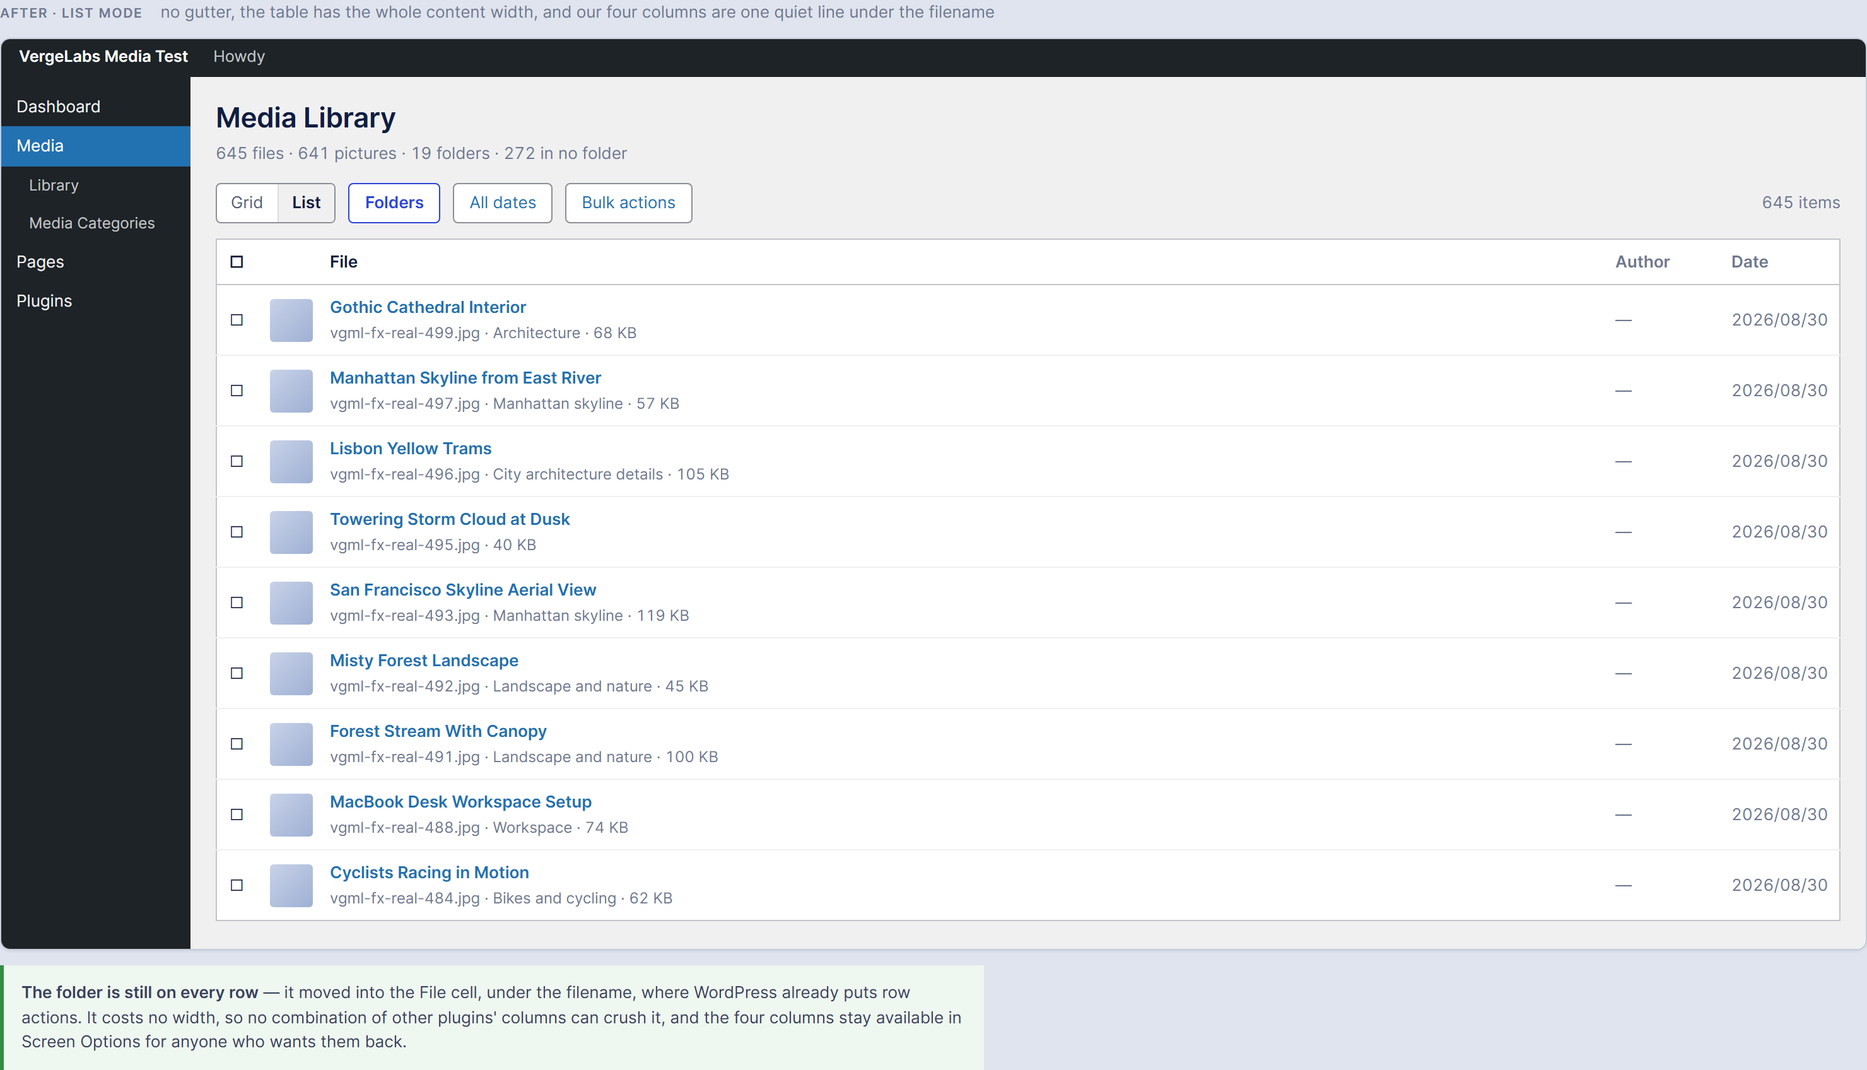
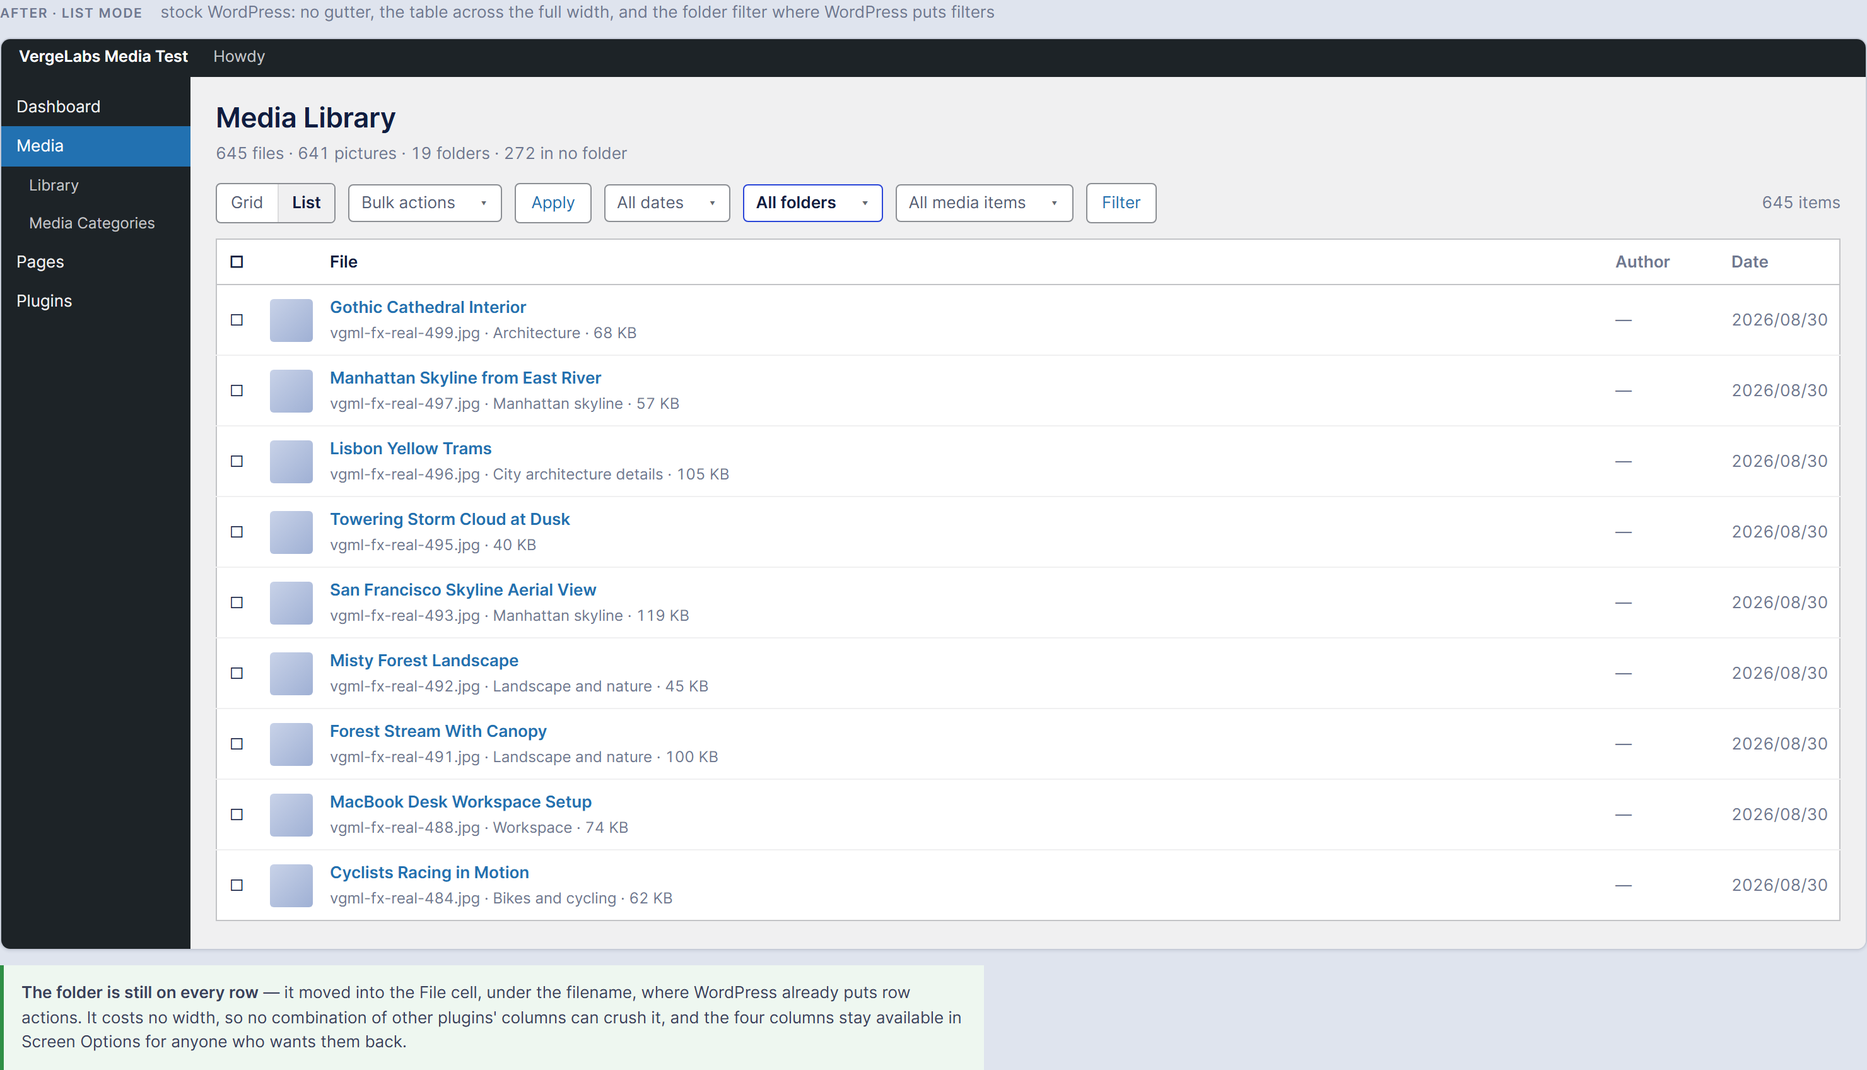
docs(list): the drawer goes -- WordPress's own filter bar instead
Nathan, 2026-09-07: keep it close to the original WordPress setup with maybe
more aesthetics. So the drawer the first draft proposed is gone.

WordPress already has an answer for filtering a list table by a hierarchical
taxonomy, and it is not a sidebar: it is a dropdown in the filter bar, which is
what the Posts screen has done with categories for years. The media list gets
the same -- an "All folders" dropdown beside "All dates", children indented,
every folder with its count, Unfiled second because that is the one people go
looking for. Pressing Filter is core's own mechanism, so it works with the back
button and needs no new interaction.

Bulk actions gains "Move to folder...", which is how a WordPress list table
moves things. It replaces dragging a row onto the tree -- the one capability
this removes from list mode, named here rather than discovered later. Grid mode
keeps the tree and the drag, because tiles reflow and a table does not.

The aesthetics are in the row, not in a new control: the thumbnail, the title
in the ink, and one quiet line under it carrying the file name, its folder and
its size -- which is also how our four columns leave the table without the
folder leaving the screen.

Five boards, the box's own rows. tools/shoot-mock.mjs renders them.

diff --git a/docs/superpowers/mocks/2026-09-07-list-view.html b/docs/superpowers/mocks/2026-09-07-list-view.html
@@ -62,6 +62,20 @@ body {
 .mk-btn.primary { background: var(--mk-accent); border-color: var(--mk-accent); color: #fff; font-weight: 600; }
 .mk-btn.folders { border-color: var(--mk-accent); color: var(--mk-accent); font-weight: 600; }
 .mk-count { margin-left: auto; color: var(--mk-muted); font-size: 13px; font-variant-numeric: tabular-nums; }
+/* WordPress's own filter controls: a select, not a button. */
+.mk-sel { display: inline-flex; align-items: center; gap: 18px; padding: 4px 9px; border: 1px solid #8c8f94; border-radius: 4px; background: #fff; color: var(--mk-n700); font-size: 13px; }
+.mk-sel i { font-style: normal; color: #646970; font-size: 11px; }
+.mk-sel.on { border-color: var(--mk-accent); color: var(--mk-ink); font-weight: 600; }
+
+/* The dropdown, open. */
+.mk-open { position: relative; }
+.mk-menu { position: absolute; top: 100%; left: 0; margin-top: 3px; min-width: 258px; background: #fff; border: 1px solid #8c8f94; border-radius: 4px; box-shadow: 0 3px 12px rgba(16,29,64,.18); padding: 4px 0; z-index: 3; }
+.mk-menu div { display: flex; justify-content: space-between; gap: 20px; padding: 5px 12px; font-size: 13px; color: var(--mk-n700); }
+.mk-menu div.on { background: #2271b1; color: #fff; }
+.mk-menu div.kid { padding-left: 28px; }
+.mk-menu div.rule { padding: 0; margin: 4px 0; border-top: 1px solid var(--mk-rule); }
+.mk-menu .n { color: var(--mk-muted); font-variant-numeric: tabular-nums; }
+.mk-menu div.on .n { color: rgba(255,255,255,.8); }
 
 /* The list table itself. */
 .mk-table { width: 100%; border-collapse: collapse; background: #fff; border: 1px solid #c3c4c7; font-size: 13px; table-layout: fixed; }
@@ -119,6 +133,7 @@ body {
 /* A drawer stretches to its stage, so the stage is given a height rather than
    left to the flex row -- otherwise the board grows to a thousand pixels. */
 .mk-two .mk-stage { height: 340px; }
+.mk-open-board .mk-wp { overflow: visible; }
 .mk-two .mk-scrollbox { overflow-x: auto; border: 1px solid #c3c4c7; background: #fff; max-width: 100%; }
 .mk-two h3 { margin: 0 0 8px; font-size: 13.5px; font-weight: 600; }
 .mk-line { margin: 10px 0 0; font-size: 13px; color: var(--mk-muted); max-width: 64ch; }
@@ -199,7 +214,7 @@ body {
 
 	<!-- ============================================================ board 2: after -->
 	<section class="mk-board" data-shot="2-after">
-		<div class="mk-board-label">After · list mode <span>no gutter, the table has the whole content width, and our four columns are one quiet line under the filename</span></div>
+		<div class="mk-board-label">After · list mode <span>stock WordPress: no gutter, the table across the full width, and the folder filter where WordPress puts filters</span></div>
 		<div class="mk-wp">
 			<div class="mk-adminbar"><b>VergeLabs Media Test</b><span>Howdy</span></div>
 			<div class="mk-wpbody">
@@ -211,9 +226,12 @@ body {
 					<p class="mk-facts">645 files · 641 pictures · 19 folders · 272 in no folder</p>
 					<div class="mk-filter">
 						<div class="mk-switch"><span>Grid</span><span class="on">List</span></div>
-						<button class="mk-btn folders" type="button">Folders</button>
-						<button class="mk-btn" type="button">All dates</button>
-						<button class="mk-btn" type="button">Bulk actions</button>
+						<span class="mk-sel">Bulk actions <i>▾</i></span>
+						<button class="mk-btn" type="button">Apply</button>
+						<span class="mk-sel">All dates <i>▾</i></span>
+						<span class="mk-sel on">All folders <i>▾</i></span>
+						<span class="mk-sel">All media items <i>▾</i></span>
+						<button class="mk-btn" type="button">Filter</button>
 						<span class="mk-count">645 items</span>
 					</div>
 					<table class="mk-table">
@@ -234,82 +252,62 @@ body {
 		<p class="mk-good"><b>The folder is still on every row</b> — it moved into the File cell, under the filename, where WordPress already puts row actions. It costs no width, so no combination of other plugins' columns can crush it, and the four columns stay available in Screen Options for anyone who wants them back.</p>
 	</section>
 
-	<!-- ============================================================ board 3: the decision -->
-	<section class="mk-board" data-shot="3-decision">
-		<div class="mk-board-label">The decision · how the tree lives in list mode <span>the measurements allow exactly these two; A is drawn as the recommendation</span></div>
+	<!-- ============================================================ board 3: the two controls -->
+	<section class="mk-board mk-open-board" data-shot="3-controls">
+		<div class="mk-board-label">The two controls, close up <span>both are WordPress's own: the Posts screen has filtered by a hierarchical taxonomy this way for years</span></div>
 		<div class="mk-two">
 
 			<div>
-				<h3>A · the tree is a drawer</h3>
-				<div class="mk-wp">
-					<div class="mk-adminbar"><b>VergeLabs Media Test</b></div>
-					<div class="mk-wpbody">
-						<div class="mk-wpmenu"><div>Dashboard</div><div class="cur">Media</div><div class="sub">Library</div></div>
-						<div class="mk-wpcontent mk-stage" style="padding:16px 20px 22px;overflow:hidden">
-							<h1 class="mk-h1">Media Library</h1>
-							<p class="mk-facts">645 files · 19 folders</p>
-							<div class="mk-filter">
-								<div class="mk-switch"><span>Grid</span><span class="on">List</span></div>
-								<button class="mk-btn folders" type="button">Folders · Workspace</button>
+				<h3>Filtering to a folder</h3>
+				<div class="mk-wp"><div style="padding:18px 20px 380px;background:#f0f0f1;border-radius:8px">
+					<div class="mk-filter" style="margin:0">
+						<span class="mk-sel">All dates <i>▾</i></span>
+						<span class="mk-open">
+							<span class="mk-sel on">All folders <i>▾</i></span>
+							<div class="mk-menu">
+								<div class="on">All folders <span class="n">645</span></div>
+								<div>Unfiled <span class="n">272</span></div>
+								<div class="rule"></div>
+								<div>Architecture <span class="n">31</span></div>
+								<div>Bikes and cycling <span class="n">17</span></div>
+								<div>City architecture details <span class="n">24</span></div>
+								<div>Landscape and nature <span class="n">88</span></div>
+								<div class="kid">Forests <span class="n">31</span></div>
+								<div class="kid">Coast <span class="n">19</span></div>
+								<div>Manhattan skyline <span class="n">42</span></div>
+								<div>Workspace <span class="n">25</span></div>
+								<div class="kid">Desks <span class="n">9</span></div>
 							</div>
-							<table class="mk-table">
-								<tr><th class="cb">☐</th><th class="thumb"></th><th>File</th><th class="when">Date</th></tr>
-								<tr><td>☐</td><td class="thumb"><i></i></td><td class="mk-file"><b>MacBook Desk Workspace Setup</b><span class="meta">vgml-fx-real-488.jpg · Workspace · 74 KB</span></td><td class="when">2026/08/30</td></tr>
-								<tr><td>☐</td><td class="thumb"><i></i></td><td class="mk-file"><b>Forest Stream With Canopy</b><span class="meta">vgml-fx-real-491.jpg · Workspace · 100 KB</span></td><td class="when">2026/08/30</td></tr>
-								<tr><td>☐</td><td class="thumb"><i></i></td><td class="mk-file"><b>Misty Forest Landscape</b><span class="meta">vgml-fx-real-492.jpg · Workspace · 45 KB</span></td><td class="when">2026/08/30</td></tr>
-							</table>
-							<div class="mk-dim"></div>
-							<div class="mk-drawer">
-								<div class="mk-drawer-head"><h3>Choose a folder</h3><a href="#">Close</a></div>
-								<div class="mk-node">All files <span class="n">645</span></div>
-								<div class="mk-node">Unfiled <span class="n">272</span></div>
-								<div class="mk-node">Architecture <span class="n">31</span></div>
-								<div class="mk-node">Landscape and nature <span class="n">88</span></div>
-								<div class="mk-node on">Workspace <span class="n">25</span></div>
-								<div class="mk-node kid">Desks <span class="n">9</span></div>
-								<div class="mk-node">Bikes and cycling <span class="n">17</span></div>
-								<p class="mk-drawer-note">Choosing a folder filters the list and closes this. Escape closes it too.</p>
-							</div>
-						</div>
+						</span>
+						<button class="mk-btn" type="button">Filter</button>
 					</div>
-				</div>
-				<p class="mk-line">The table keeps the whole content width at every screen size, so no plugin's columns can crush it. The tree is one press away and the control says which folder is showing. <b>Cost: the tree is not visible at rest in list mode.</b></p>
+				</div></div>
+				<p class="mk-line">Children indent, every folder carries its count, and <b>Unfiled</b> is second because it is the one people go looking for. Pressing Filter is core's own mechanism — no new interaction, and it works with a browser's back button.</p>
 			</div>
 
 			<div>
-				<h3>B · the tree stays, the table scrolls sideways</h3>
-				<div class="mk-wp">
-					<div class="mk-adminbar"><b>VergeLabs Media Test</b></div>
-					<div class="mk-wpbody">
-						<div class="mk-wpmenu"><div>Dashboard</div><div class="cur">Media</div><div class="sub">Library</div></div>
-						<div class="mk-wpcontent" style="padding:0;display:flex">
-							<div class="mk-ourpane" style="width:190px">
-								<b>Media Categories</b>
-								<u>All files <span style="float:right">645</span></u>
-								<u>Unfiled <span style="float:right">272</span></u>
-								<u>Architecture</u><u>Landscape and nature</u><u>Workspace</u>
+				<h3>Putting files in a folder</h3>
+				<div class="mk-wp"><div style="padding:18px 20px 380px;background:#f0f0f1;border-radius:8px">
+					<div class="mk-filter" style="margin:0">
+						<span class="mk-open">
+							<span class="mk-sel on">Bulk actions <i>▾</i></span>
+							<div class="mk-menu" style="min-width:210px">
+								<div>Bulk actions</div>
+								<div>Delete permanently</div>
+								<div class="rule"></div>
+								<div class="on">Move to folder…</div>
 							</div>
-							<div style="flex:1;min-width:0;padding:16px 16px 22px;overflow:hidden">
-								<h1 class="mk-h1">Media Library</h1>
-								<p class="mk-facts">645 files · 19 folders</p>
-								<div class="mk-scrollbox">
-									<table class="mk-table" style="min-width:1100px;border:0">
-										<tr><th class="cb">☐</th><th class="thumb"></th><th>File</th><th class="who">Author</th><th class="when">Date</th><th style="width:110px">FileBird</th><th style="width:90px">Size</th><th style="width:130px">AIOSEO</th></tr>
-										<tr><td>☐</td><td class="thumb"><i></i></td><td class="mk-file"><b>Gothic Cathedral Interior</b><span class="meta">vgml-fx-real-499.jpg · Architecture</span></td><td class="who">—</td><td class="when">2026/08/30</td><td class="mk-nowrap">Uncategorised</td><td>68 KB</td><td class="mk-nowrap">SEO title set</td></tr>
-										<tr><td>☐</td><td class="thumb"><i></i></td><td class="mk-file"><b>Lisbon Yellow Trams</b><span class="meta">vgml-fx-real-496.jpg · City architecture</span></td><td class="who">—</td><td class="when">2026/08/30</td><td class="mk-nowrap">Uncategorised</td><td>105 KB</td><td class="mk-nowrap">SEO title set</td></tr>
-										<tr><td>☐</td><td class="thumb"><i></i></td><td class="mk-file"><b>Misty Forest Landscape</b><span class="meta">vgml-fx-real-492.jpg · Landscape</span></td><td class="who">—</td><td class="when">2026/08/30</td><td class="mk-nowrap">Uncategorised</td><td>45 KB</td><td class="mk-nowrap">SEO title set</td></tr>
-									</table>
-								</div>
-								<div style="font-size:12px;color:var(--mk-muted);padding-top:6px">⟵ the table scrolls sideways inside this box ⟶</div>
-							</div>
-						</div>
+						</span>
+						<button class="mk-btn" type="button">Apply</button>
+						<span style="font-size:13px;color:var(--mk-muted)">3 selected</span>
 					</div>
-				</div>
-				<p class="mk-line">The tree stays where it is and the table is given a floor, so the columns keep their width and the row stays short. <b>Cost: a horizontal scrollbar inside the page on every laptop</b>, and the File column is off-screen the moment somebody scrolls right.</p>
+				</div></div>
+				<p class="mk-line">This is what replaces dragging a row onto the tree, and it is how a WordPress list table moves things. <b>The drag itself goes from list mode</b> — there is no tree there to drop on. Grid mode keeps both the tree and the drag.</p>
 			</div>
 
 		</div>
 	</section>
+
 
 	<!-- ============================================================ board 4: grid mode's rail, and the numbers -->
 	<section class="mk-board" data-shot="4-rail">
@@ -369,10 +367,11 @@ body {
 		<div class="mk-wp"><div style="padding:22px 26px 26px;background:#fff">
 			<table class="mk-table2">
 				<tr><th>where</th><th>now</th><th>after</th></tr>
-				<tr><td><b>The drawer's control</b></td><td style="color:var(--mk-muted)">no such control</td><td>Folders</td></tr>
-				<tr><td><b>…with a folder showing</b></td><td style="color:var(--mk-muted)">no such control</td><td>Folders · Workspace</td></tr>
-				<tr><td><b>The drawer's heading</b></td><td style="color:var(--mk-muted)">none</td><td>Choose a folder</td></tr>
-				<tr><td><b>Its close</b></td><td style="color:var(--mk-muted)">none</td><td>Close</td></tr>
+				<tr><td><b>The folder dropdown</b></td><td style="color:var(--mk-muted)">no such control</td><td>All folders</td></tr>
+				<tr><td><b>Its first two rows</b></td><td style="color:var(--mk-muted)">none</td><td>All folders (645) · Unfiled (272)</td></tr>
+				<tr><td><b>A folder in it</b></td><td style="color:var(--mk-muted)">none</td><td>Landscape and nature (88)</td></tr>
+				<tr><td><b>Bulk actions</b></td><td style="color:var(--mk-muted)">Delete permanently only</td><td>Move to folder…</td></tr>
+				<tr><td><b>After a move</b></td><td style="color:var(--mk-muted)">none</td><td>3 files moved to Workspace.</td></tr>
 				<tr><td><b>Under the filename</b></td><td style="color:var(--mk-muted)">nothing — four separate columns</td><td>vgml-fx-real-499.jpg · Architecture · 68&nbsp;KB</td></tr>
 				<tr><td><b>…with no folder</b></td><td style="color:var(--mk-muted)">nothing</td><td>vgml-fx-real-495.jpg · 40&nbsp;KB</td></tr>
 				<tr><td><b>The rail, grid mode</b></td><td>an unlabelled ‹ ›</td><td>Folders / Hide folders</td></tr>

diff --git a/docs/superpowers/specs/2026-09-07-list-view.md b/docs/superpowers/specs/2026-09-07-list-view.md
@@ -23,24 +23,31 @@ Three things, and the design follows from them rather than from taste.
 
 ## What changes
 
-### 1. In list mode the tree is a drawer, not a gutter
+### 1. In list mode the folder filter is a dropdown, not a gutter
 
-Grid mode keeps the tree beside the tiles: tiles reflow into whatever width is
-left and nothing breaks. A table does not reflow, it crushes, so list mode
-gets the whole content width and the tree opens over it.
+Nathan's steer, 2026-09-07: keep it close to WordPress's own setup. WordPress
+already has a pattern for filtering a list table by a hierarchical taxonomy and
+it is not a sidebar — it is a dropdown in the filter bar, which is what the
+Posts screen has done with categories since forever. The media list gets the
+same thing, so nothing here is an invention.
 
-- The list arrives with **no gutter**: `.wrap` has core's own padding and the
-  table has the full width of `#wpbody-content`.
-- A control in the filter bar, beside the grid/list switch, reads **`Folders`**
-  and carries the count of what is filtered — `Folders · Workspace` when a
-  folder is showing.
-- Pressing it slides the tree in **over** the list, 300px, with the list dimmed
-  behind it. Choosing a folder filters the list and closes the drawer, because
-  choosing is the whole reason it was opened.
-- Escape closes it. It is never open on arrival.
-- Grid mode is untouched.
+- The list arrives as **stock WordPress**: no gutter, the table across the full
+  width of `#wpbody-content`, core's own filter bar.
+- In that bar, beside `All dates`, a **`All folders`** dropdown listing Media
+  Categories hierarchically — children indented with the same `&nbsp;` prefix
+  core uses — each with its count, plus `Unfiled` at the top. Selecting one and
+  pressing Filter filters the list. That is core's own mechanism, unchanged.
+- **Bulk actions gains `Move to folder…`**, which is how a list table moves
+  things in WordPress. It replaces what dragging a row onto the tree did, in
+  the idiom the screen already has.
+- Grid mode keeps the tree beside the tiles, untouched: tiles reflow into
+  whatever width is left, a table does not.
 
-This is the change that fixes the screen. Everything else is hygiene.
+**What this costs.** Dragging a row onto a folder goes, because there is no
+tree in list mode to drag onto. Tick the rows and use `Move to folder…`
+instead, or work in grid mode, where the tree and the drag both stay. This is
+the only capability the change removes and it is named here rather than
+discovered later.
 
 ### 2. We add no columns to the list by default
 
@@ -87,10 +94,11 @@ Every new string. Nothing else on the screen changes wording.
 
 | where | now | after |
 |---|---|---|
-| the drawer's control, nothing filtered | *(no such control)* | `Folders` |
-| the drawer's control, a folder showing | *(no such control)* | `Folders · %s` |
-| the drawer's heading | *(none)* | `Choose a folder` |
-| the drawer's close | *(none)* | `Close` |
+| the folder dropdown, nothing chosen | *(no such control)* | `All folders` |
+| its first row | *(none)* | `Unfiled (%s)` |
+| a folder in it | *(none)* | `%1$s (%2$s)` — name, count |
+| bulk actions | *(none)* | `Move to folder…` |
+| after a move | *(none)* | `%1$s files moved to %2$s.` |
 | under the filename | *(nothing)* | `%1$s · %2$s · %3$s` — file name, folder, size |
 | under the filename, no folder | *(nothing)* | `%1$s · %2$s` — file name, size |
 | the rail's control, grid mode | *(unlabelled ‹ ›)* | `Folders` / `Hide folders` |
@@ -104,11 +112,11 @@ Not built. This is the shape the next session implements once the mock is
 approved.
 
 - `core/media-list.php` — our four columns come off the default set; the line
-  under the filename is added to the title cell.
-- `js/vergeml-tree.js` — the drawer in list mode: the control, the overlay, the
-  close on choose and on Escape; the rail in grid mode; the fold saves what is
-  on screen.
-- `css/vergeml-media-list.css` — the drawer, the rail, `.row-actions`, our
+  under the filename is added to the title cell; the `All folders` dropdown on
+  `restrict_manage_posts`; the `Move to folder…` bulk action and its handler.
+- `js/vergeml-tree.js` — the tree is not rendered in list mode at all; the rail
+  in grid mode; the fold saves what is on screen.
+- `css/vergeml-media-list.css` — the row's meta line, `.row-actions`, our
   cells.
 - `css/vergeml-tree.css` — the gutter goes in list mode.
 
@@ -121,14 +129,22 @@ approved.
   Mutation check: put `.row-actions` back to wrapping and it goes red.
 - `tests/ui/modes.spec.mjs`: in list mode the table's width equals
   `#wpbody-content`'s, so nothing of ours is taking a gutter.
-- The drawer: opens on the control, closes on choosing a folder, closes on
-  Escape, filters the list to the folder chosen.
+- The folder dropdown: it lists every folder with its count and `Unfiled`,
+  choosing one and pressing Filter shows only that folder's files, and the
+  count in the dropdown equals the number of rows that come back.
+- `Move to folder…`: three rows ticked and moved land in that folder and
+  nowhere else, and the rows that were not ticked do not move.
 - The fold in grid mode: folded, reload, still folded.
 
-## The decision that is Nathan's
+## Taken, not asked
 
-**The drawer.** It is the one real change of shape here — in list mode the tree
-stops being visible at rest and becomes something you open. The alternative is
-keeping the tree beside the list and accepting a horizontally scrolling table,
-which the measurements say is the only other way to give the columns their
-width. Board 3 of the mock draws both.
+Nathan's steer on 2026-09-07 was "keep it close to the original WordPress setup
+with maybe more aesthetics", so the drawer that the first draft of this spec
+proposed is gone. WordPress's own answer to filtering a list table by a
+hierarchical taxonomy is a dropdown in the filter bar, and that is what this
+uses. The aesthetics are in the row — a real thumbnail, the title in the ink,
+and one quiet line under it — not in a new control.
+
+The one thing worth Nathan's eye before code: **dragging a row onto a folder
+goes from list mode**, replaced by `Move to folder…` in bulk actions. Grid mode
+keeps the drag.
